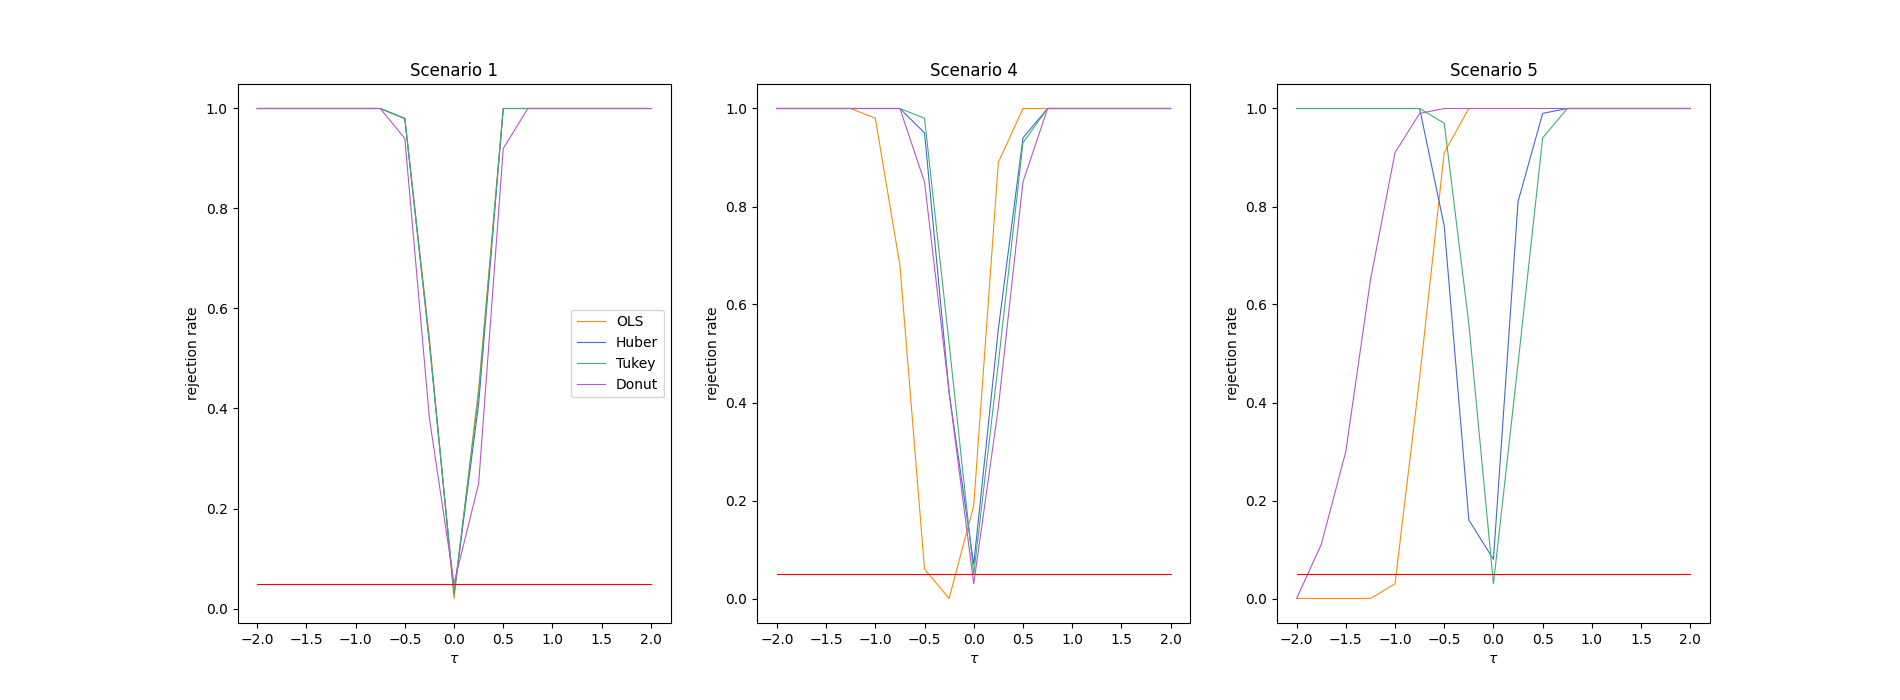
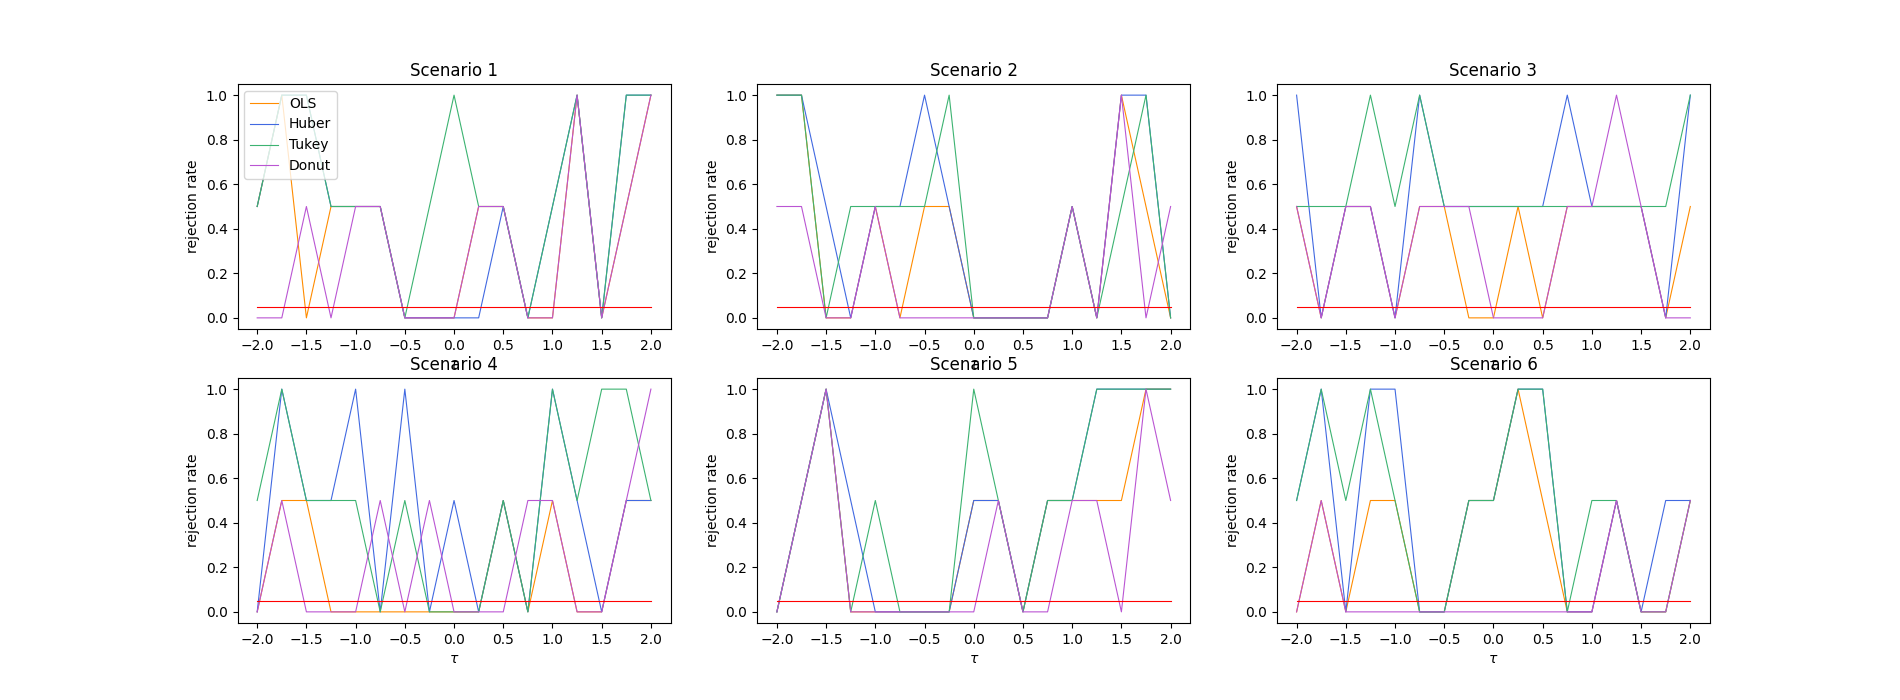
6 scenarios power function

diff --git a/src/sample.py b/src/sample.py
@@ -228,7 +228,7 @@ def genY(name, X, tau=0, L=0, alpha=0, beta=0):
     return Y
 
 
-def genOutlier(Y, X, name, nOutliers=1, delta=0.1):
+def genOutlier(Y, X, name, nOutliers=1, delta=0.1, cutoff=0):
     """
     This function generates outliers based on different methods
 
@@ -261,7 +261,7 @@ def genOutlier(Y, X, name, nOutliers=1, delta=0.1):
             notFound = True
             # Find first observation in the stripe and change outcome value to 2.5
             while notFound & (i < len(X)):
-                if (X[i] <= delta) & (X[i] > 0):
+                if (X[i] <= delta) & (X[i] > cutoff):
                     Y[i] = 10
                     Outliers[i] = 1
                     notFound = False
@@ -290,7 +290,7 @@ def genOutlier(Y, X, name, nOutliers=1, delta=0.1):
             # Find first observation just outside the stripe and change outcome value to 2.5
             while notFound & (i < len(X)):
                 if (X[i] <= -2 * delta) & (X[i] > -delta):
-                    Y[i] = 5
+                    Y[i] = 10
                     Outliers[i] = 1
                     notFound = False
                     i = i + 1
@@ -319,6 +319,34 @@ def genOutlier(Y, X, name, nOutliers=1, delta=0.1):
             # change outcome value to 2.5
             while notFound & (j < len(X)):
                 if (X[j] <= 2 * delta) & (X[j] > delta):
+                    Y[j] = 10
+                    Outliers[j] = 1
+                    notFound = False
+                    j = j + 1
+                else:
+                    j = j + 1
+         # Simple Oposite generates outlier(s) on both sides of the cutoff just outside the donut stripe.
+    if name == "Simple Oposite Inside":
+        i = 0
+        j = 0
+        for k in range(nOutliers):
+            notFound = True
+            # Find first observation just outside the left-side of the stripe and
+            # change outcome value to -2.5
+            while notFound & (i < len(X)):
+                if (X[i] <= cutoff) & (X[i] > -delta):
+                    Y[i] = -10
+                    Outliers[i] = 1
+                    notFound = False
+                    i = i + 1
+                else:
+                    i = i + 1
+
+            notFound = True
+            # Find first observation just outside the right-side of the stripe and 
+            # change outcome value to 2.5
+            while notFound & (j < len(X)):
+                if (X[j] >= cutoff) & (X[j] < delta):
                     Y[j] = 10
                     Outliers[j] = 1
                     notFound = False

diff --git a/src/simulation.py b/src/simulation.py
@@ -447,14 +447,27 @@ def powerSimulations(
     alpha,
     beta,
     cutoff,
+    parametersScenarios,
 ):
+    (
+        scenario2_method,
+        scenario2_num,
+        scenario3_method,
+        scenario3_num,
+        scenario4_method,
+        scenario4_num,
+        scenario5_method,
+        scenario5_num,
+        scenario6_method,
+        scenario6_num,
+    ) = parametersScenarios
     taus = [{}]
     for i in range(-8, 9):
         taus = np.append(taus, i / 4)
     taus = np.delete(taus, 0)
 
     rejectionRates = (
-        powerSimulation(taus, r, nameSample, n, alpha=0.5, beta=1, cutoff=0),
+        powerSimulation(taus, r, nameSample, n, alpha, beta, cutoff=0),
         powerSimulation(
             taus,
             r,
@@ -464,8 +477,8 @@ def powerSimulations(
             beta,
             cutoff,
             outlier=True,
-            outlierMethod="Simple",
-            nOutliers=1,
+            outlierMethod=scenario2_method,
+            nOutliers=scenario2_num,
         ),
         powerSimulation(
             taus,
@@ -476,8 +489,44 @@ def powerSimulations(
             beta,
             cutoff,
             outlier=True,
-            outlierMethod="Simple Oposite",
-            nOutliers=3,
+            outlierMethod=scenario3_method,
+            nOutliers=scenario3_num,
+        ),
+        powerSimulation(
+            taus,
+            r,
+            nameSample,
+            n,
+            alpha,
+            beta,
+            cutoff,
+            outlier=True,
+            outlierMethod=scenario4_method,
+            nOutliers=scenario4_num,
+        ),
+        powerSimulation(
+            taus,
+            r,
+            nameSample,
+            n,
+            alpha,
+            beta,
+            cutoff,
+            outlier=True,
+            outlierMethod=scenario5_method,
+            nOutliers=scenario5_num,
+        ),
+        powerSimulation(
+            taus,
+            r,
+            nameSample,
+            n,
+            alpha,
+            beta,
+            cutoff,
+            outlier=True,
+            outlierMethod=scenario6_method,
+            nOutliers=scenario6_num,
         ),
     )
 
@@ -486,6 +535,4 @@ def powerSimulations(
         rejectionRates,
         True,
         "images/powerFunctions.png",
-        [1,4,5],
     )
-

diff --git a/dev.py b/dev.py
@@ -8,13 +8,13 @@ import pandas as pd
 import numpy as np
 
 ### Test sample
-#sample = smp.genSample('Basic Linear',250,tau=-1,alpha=0.5,beta=1,L=200,outlier=False,outlierMethod='Simple Outside', nOutliers=5,printPlot=False)
-#res = rrdd.jointFitRD('Robust Huber',sample)
-#print(res.summary())
-#res = rrdd.jointFitRD('OLS',sample)
-#print(res.summary())
-#print(res.t_test(([0, 0, 1, 0], 0)))
-#print(res.t_test(([0, 0, 1, 0], 0), use_t=False))
+# sample = smp.genSample('Basic Linear',250,tau=-1,alpha=0.5,beta=1,L=200,outlier=False,outlierMethod='Simple Outside', nOutliers=5,printPlot=False)
+# res = rrdd.jointFitRD('Robust Huber',sample)
+# print(res.summary())
+# res = rrdd.jointFitRD('OLS',sample)
+# print(res.summary())
+# print(res.t_test(([0, 0, 1, 0], 0)))
+# print(res.t_test(([0, 0, 1, 0], 0), use_t=False))
 
 ### Test analytic equality between one and two different regressions
 # print(rrdd.splitFitRD('Robust Huber',sample))
@@ -28,25 +28,45 @@ import numpy as np
 
 
 ### Test simulation on one scenario
-#p, tv, cic = sim.simulation(10,'Basic Linear',250,tau=2,alpha=-1,beta=1,outlier=False)
+# p, tv, cic = sim.simulation(10,'Basic Linear',250,tau=2,alpha=-1,beta=1,outlier=False)
 # print(met.compRMSE(p,2))
 # print('TV')
 # print(met.percentV(tv))
-#print('CIC')
-#print(cic)
+# print('CIC')
+# print(cic)
 #
 ##
 # exp.scenariosHist(p, True, 'images/testfig1.png')
 #
-#r = 2
-#n = 250
+# r = 2
+# n = 250
 #
-#simResults = sim.simulations(r, "Basic Linear", n, tau=-1, alpha=0.5, beta=1, cutoff=0)
-#met.analyseSimResults(simResults)
+# simResults = sim.simulations(r, "Basic Linear", n, tau=-1, alpha=0.5, beta=1, cutoff=0)
+# met.analyseSimResults(simResults)
 
-r=100
-n=250
-sim.powerSimulations(r, "Basic Linear", n, alpha=0.5, beta=1, cutoff=0)
+r = 10
+n = 250
+outlierScenarios = (
+    "Simple Outside Right",
+    1,
+    "Simple Oposite",
+    3,
+    "Simple Outside Left",
+    1,
+    "Simple Outside Right",
+    3,
+    "Simple Oposite Inside",
+    3,
+)
+sim.powerSimulations(
+    r,
+    "Basic Linear",
+    n,
+    alpha=0.5,
+    beta=1,
+    cutoff=0,
+    parametersScenarios=outlierScenarios,
+)
 
 # point6, test6, confInt6, firstSample6 = simulation(
 #        r, name, n, tau=0, L=40, cutoff=cutoff, b=0.5, outlier=False

diff --git a/src/exports.py b/src/exports.py
@@ -85,7 +85,7 @@ def plotScenariosHist(scenarios, saveFig=False, figPath=""):
             c = c + 1
         axs[j][l].set_title("Scenario " + str(1 + i))
 
-        # Increment figure location
+        # Increment figure location and add legend
         if i == 0:
             axs[j][l].legend(loc="upper left")
         if i == 2:
@@ -185,27 +185,31 @@ def plotSamplesComparison(
         return fig
 
 
-def plotPowerFunctionComparison(taus, rejectionRates, saveFig=False, figPath="", scenarioNum=""):
-    fig, axs = plt.subplots(1, 3, figsize=[19, 7])
+def plotPowerFunctionComparison(taus, rejectionRates, saveFig=False, figPath=""):
+    fig, axs = plt.subplots(2, 3, figsize=[19, 9])
     labels = ["OLS", "Huber", "Tukey", "Donut"]
     colors = ["darkorange", "royalblue", "mediumseagreen", "mediumorchid"]
-
+    j, l = 0, 0
     # For each scenario
-    for i in range(3):
+    for i in range(6):
         c = 0
         # Plot the power functions
         for m in range(len(labels)):
-            axs[i].plot(
+            axs[j][l].plot(
                 taus, rejectionRates[i][m], color=colors[m], label=labels[m], linewidth=0.8
             )
-        axs[i].plot(taus, 0.05 + np.zeros_like(taus), color="r", linewidth=0.8)
-        axs[i].set_ylabel("rejection rate")
-        axs[i].set_xlabel("$τ$")
-        axs[i].set_title("Scenario "+ str(scenarioNum[i]))
+        axs[j][l].plot(taus, 0.05 + np.zeros_like(taus), color="r", linewidth=0.8)
+        axs[j][l].set_ylabel("rejection rate")
+        axs[j][l].set_xlabel("$τ$")
+        axs[j][l].set_title("Scenario "+ str(1+i))
 
-        # Increment figure location
+        # Increment figure location and add lengend
         if i == 0:
-            axs[i].legend()
+            axs[j][l].legend(loc="upper left")
+        if i == 2:
+            j = 1
+            l = -1
+        l = l + 1
 
     # Save figure
     if saveFig:
